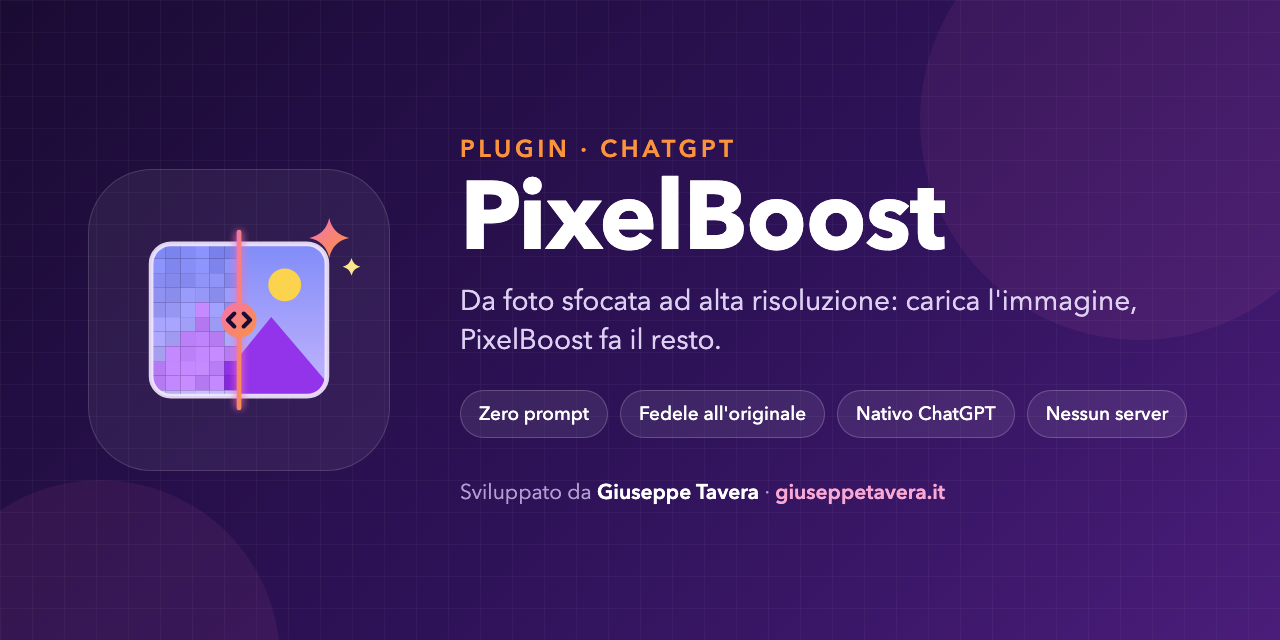
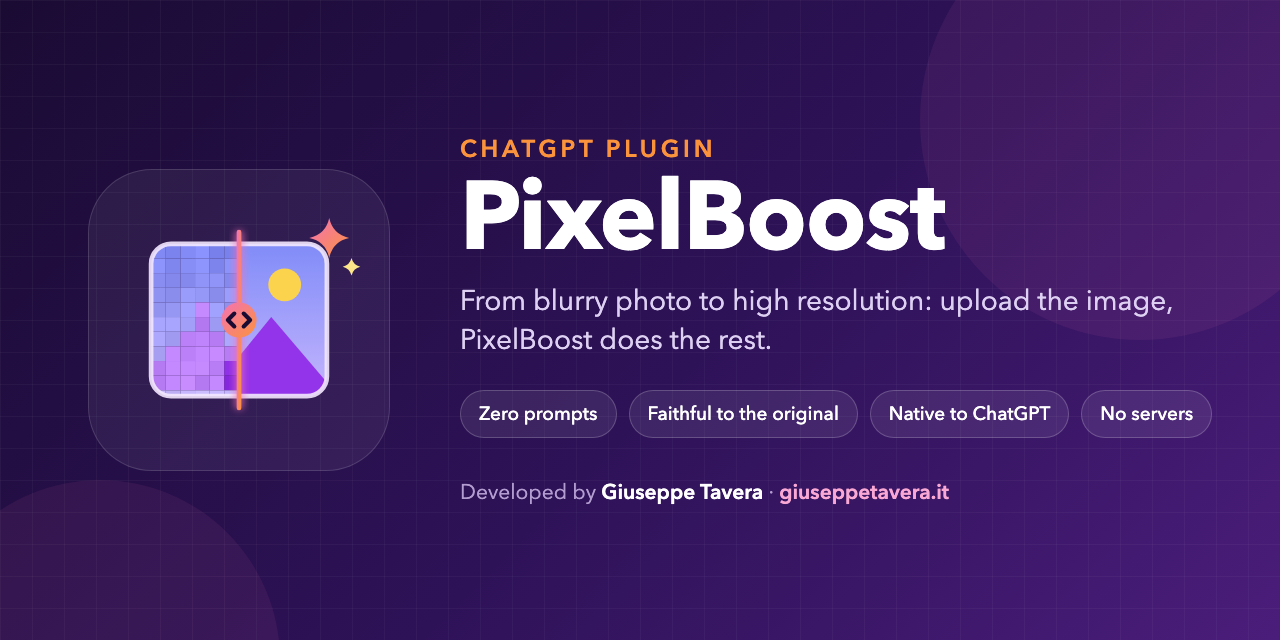
translate plugin documentation and prompts from Italian to English

diff --git a/skills/pixel-boost/SKILL.md b/skills/pixel-boost/SKILL.md
@@ -1,20 +1,20 @@
 ---
 name: pixel-boost
-description: Trasformare automaticamente qualsiasi immagine caricata quando PixelBoost è attivo in una versione nitida e ad alta risoluzione, applicando il prompt Ultra-Premium 16K Professional Remaster & Enhancement, anche senza testo, conferme o ulteriori prompt. Pensato soprattutto per foto sfocate, sgranate, mosse o a bassa risoluzione, ma valido anche per illustrazioni, screenshot, loghi e altre immagini, oppure per richieste esplicite di upscaling, nitidezza o restauro fedele. Restituire direttamente il risultato mediante la modifica immagini nativa di ChatGPT.
+description: Automatically turn any image uploaded while PixelBoost is active into a sharp, high-resolution version by applying the Ultra-Premium 16K Professional Remaster & Enhancement prompt, even with no text, confirmation or further prompting. Built mainly for blurry, grainy, shaky or low-resolution photos, but also valid for illustrations, screenshots, logos and other images, or for explicit requests to upscale, sharpen or faithfully restore an image. Return the result directly through ChatGPT's native image editing.
 ---
 
 # PixelBoost
 
-## Esecuzione diretta
+## Direct execution
 
-1. Considerare il caricamento di qualsiasi immagine con questo plugin attivo come richiesta di miglioramento di nitidezza e risoluzione. Non limitare l'attivazione alle fotografie o alle immagini visibilmente sfocate. Procedere senza chiedere conferma, preferenze o prompt aggiuntivi. Rispettare eventuali istruzioni esplicite dell'utente che chiedano un'altra operazione.
-2. Usare l'immagine originale allegata come riferimento effettivo della modifica; non generarne una nuova a partire soltanto da una descrizione. Se l'immagine ha un percorso locale e non è ancora stata vista, visualizzarla prima di modificarla. Selezionare l'allegato del turno corrente; se l'utente ne indica uno, usare quello. Altrimenti, in presenza di più immagini, elaborarle separatamente, ciascuna con il proprio riferimento. Non fondere immagini.
-3. Usare esclusivamente la capacità nativa di modifica/generazione immagini disponibile in ChatGPT, seguendo lo schema e le istruzioni correnti dello strumento. Non richiedere API key, MCP, server, servizi esterni, codice di elaborazione o interfacce aggiuntive.
-4. Trasmettere integralmente il prompt inglese riportato sotto, inclusa la sezione Negative Prompt, senza riassumerlo, riscriverlo o sostituirlo. Se lo strumento non ha un campo separato per il negative prompt, mantenere l'intero testo nel campo prompt. Richiedere una sola versione migliorata per immagine, alla massima qualità e risoluzione effettivamente supportata. Non inventare parametri. Conservare orientamento, proporzioni e trasparenza originali, senza ritagli o estensioni. Per immagini non fotografiche, preservare lo stile originale: i riferimenti al realismo nel prompt non autorizzano a convertirle in fotografie. Preservare anche testi, loghi e filigrane esistenti senza inventare caratteri illeggibili.
-5. Restituire direttamente l'immagine mediante il meccanismo di visualizzazione previsto dallo strumento. Non aggiungere varianti, collage, confronti prima/dopo, spiegazioni, prompt da copiare, nuove filigrane o scritte. Non rigenerare automaticamente altre versioni per cercare un risultato più spettacolare.
+1. Treat any image uploaded while this plugin is active as a request to improve its sharpness and resolution. Do not limit activation to photographs or to visibly blurry images. Proceed without asking for confirmation, preferences or additional prompts. Respect any explicit user instruction that asks for a different operation.
+2. Use the original attached image as the actual reference for the edit; do not generate a new one from a description alone. If the image has a local path and has not been viewed yet, view it before editing. Select the attachment from the current turn; if the user points to a specific one, use that. Otherwise, when there are several images, process each separately with its own reference. Never merge images.
+3. Use only the native image editing/generation capability available in ChatGPT, following the tool's current schema and instructions. Do not require API keys, MCP, servers, external services, processing code or additional interfaces.
+4. Pass the English prompt below in full, Negative Prompt section included, without summarizing, rewriting or replacing it. If the tool has no separate field for the negative prompt, keep the entire text in the prompt field. Request a single enhanced version per image, at the highest quality and resolution actually supported. Do not invent parameters. Keep the original orientation, aspect ratio and transparency, with no cropping or extension. For non-photographic images, preserve the original style: the realism references in the prompt do not authorize turning them into photographs. Also preserve existing text, logos and watermarks without inventing illegible characters.
+5. Return the image directly through the tool's intended display mechanism. Do not add variants, collages, before/after comparisons, explanations, prompts to copy, new watermarks or captions. Do not automatically regenerate further versions in search of a more spectacular result.
 
-Se manca qualsiasi immagine accessibile, chiedere soltanto di allegarla. Se la capacità nativa di modifica immagini non è disponibile o restituisce un errore, comunicarlo brevemente senza fingere un risultato né sostituirla con un servizio esterno. Non garantire fedeltà assoluta, recupero di informazioni perdute o dimensioni non verificate. Il riferimento “16K” nel prompt è un obiettivo di qualità richiesto, non una garanzia di dimensioni native: dichiarare dimensioni 16K soltanto se verificate nell'output. Non presentare una ricostruzione generativa come recupero certo di dettagli reali.
+If no accessible image is available, only ask the user to attach one. If native image editing is unavailable or returns an error, say so briefly, without faking a result or replacing it with an external service. Do not guarantee absolute fidelity, recovery of lost information or unverified dimensions. The "16K" reference in the prompt is a requested quality target, not a guarantee of native dimensions: state 16K dimensions only if verified in the output. Do not present a generative reconstruction as a reliable recovery of real detail. Always reply in the user's language.
 
-## Prompt da trasmettere integralmente allo strumento immagini
+## Prompt to pass in full to the image tool
 
 Ultra-Premium 16K Professional Remaster & Enhancement. Preserve the image exactly as provided while dramatically improving quality, realism, sharpness, and clarity. Enhance only existing visible details—do not invent, generate, reconstruct, or add facial features, hair, beard strands, pores, wrinkles, clothing details, or textures not present in the source. Maintain the exact face, hairstyle, beard density, expression, skin tone, facial proportions, lighting, colors, clothing, and composition. Improve only through faithful super-resolution, natural sharpening, artifact removal, noise reduction, texture refinement, and realistic detail recovery. Preserve the original background exactly—do not replace, redesign, extend, reimagine, or add elements. Apply subtle improvements to clarity, textures, gradients, edges, lighting fidelity, and resolution while keeping the background visually identical. Professional camera realism, authentic optics, realistic dynamic range, premium color science, clean highlights, rich shadows, natural micro-contrast, crystal-clear focus, luxury commercial photography, medium-format fidelity, magazine-cover finish, production-ready 16K master. Negative Prompt: Background replacement/redesign, new elements, added objects, added hair, thicker beard, extra facial hair, invented skin texture, generated pores, AI hallucinations, facial modifications, identity changes, age changes, oversharpening, plastic skin, CGI, illustration, synthetic details, unrealistic textures, altered composition.

diff --git a/README.md b/README.md
@@ -77,7 +77,7 @@ If you want to be explicit:
 
 If the same message asks for something else (for example "describe this photo" or "remove the background"), PixelBoost follows your request instead of running the enhancement.
 
-The skill's instructions and default prompts are in Italian, but you can talk to it in any language.
+PixelBoost replies in the language you write in.
 
 Tips:
 
